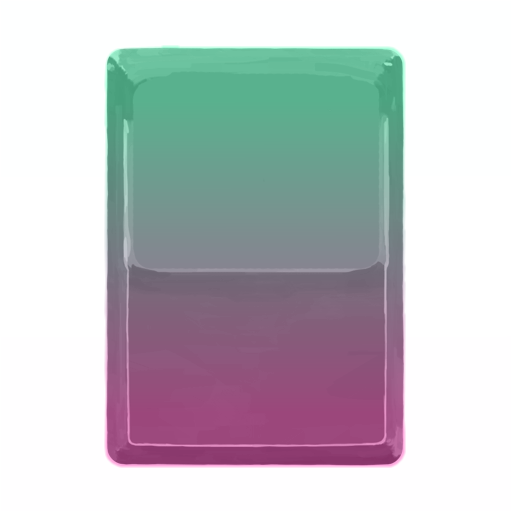
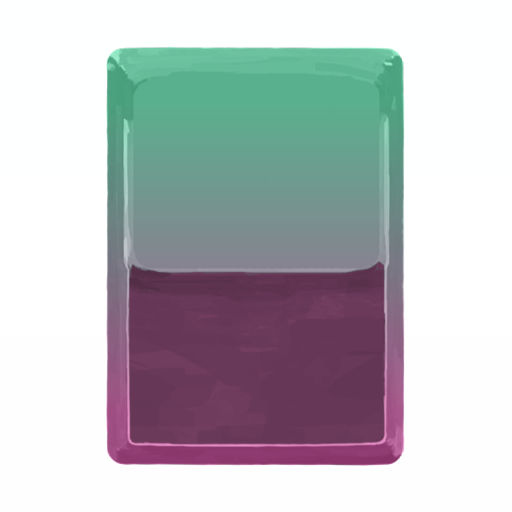
update cardbacks

diff --git a/src/main/java/omnismadeline/cards/colorless/IceCube.java b/src/main/java/omnismadeline/cards/colorless/IceCube.java
@@ -13,6 +13,8 @@ import omnismadeline.enums.CustomTags;
 import omnismadeline.powers.MomentumPower;
 import omnismadeline.util.CardStats;
 
+import static omnismadeline.MadelineMod.characterPath;
+
 public class IceCube extends BaseEnvironmentCard {
     public static final String ID = makeID(IceCube.class.getSimpleName());
     private static final CardStats info = new CardStats(
@@ -34,6 +36,8 @@ public class IceCube extends BaseEnvironmentCard {
         this.setExhaust(true);
         this.tags.add(CustomTags.ICE);
         this.cardsToPreview = new MagmaCube(false);
+
+        setBackgroundTexture(characterPath("cardback/bg_skill_env_colorless.png"), characterPath("cardback/bg_skill_env_colorless_p.png"));
     }
     public IceCube(boolean isPreview) {
         super(ID, info);
@@ -44,6 +48,8 @@ public class IceCube extends BaseEnvironmentCard {
         if (isPreview) {
             this.cardsToPreview = new MagmaCube(false);
         }
+
+        setBackgroundTexture(characterPath("cardback/bg_skill_env_colorless.png"), characterPath("cardback/bg_skill_env_colorless_p.png"));
     }
 
     @Override

diff --git a/src/main/java/omnismadeline/cards/colorless/IceWall.java b/src/main/java/omnismadeline/cards/colorless/IceWall.java
@@ -13,6 +13,8 @@ import omnismadeline.cards.MagmaWall;
 import omnismadeline.enums.CustomTags;
 import omnismadeline.util.CardStats;
 
+import static omnismadeline.MadelineMod.characterPath;
+
 public class IceWall extends BaseEnvironmentCard {
     public static final String ID = makeID(IceWall.class.getSimpleName());
     private static final CardStats info = new CardStats(
@@ -34,6 +36,8 @@ public class IceWall extends BaseEnvironmentCard {
         this.setExhaust(true);
         this.tags.add(CustomTags.ICE);
         this.cardsToPreview = new MagmaWall(false);
+
+        setBackgroundTexture(characterPath("cardback/bg_skill_env_colorless.png"), characterPath("cardback/bg_skill_env_colorless_p.png"));
     }
     public IceWall(boolean isPreview) {
         super(ID, info);
@@ -44,6 +48,8 @@ public class IceWall extends BaseEnvironmentCard {
         if (isPreview) {
             this.cardsToPreview = new MagmaWall(false);
         }
+
+        setBackgroundTexture(characterPath("cardback/bg_skill_env_colorless.png"), characterPath("cardback/bg_skill_env_colorless_p.png"));
     }
 
     @Override

diff --git a/src/main/java/omnismadeline/cards/BaseEnvironmentCard.java b/src/main/java/omnismadeline/cards/BaseEnvironmentCard.java
@@ -21,8 +21,10 @@ public abstract class BaseEnvironmentCard extends BaseCard {
         final String cardType =
                 info.cardType == CardType.ATTACK ? "_attack" :
                         info.cardType == CardType.SKILL ? "_skill" :
-                                info.cardType == CardType.POWER ? "_power" : "";
-        setBackgroundTexture(characterPath("cardback/bg"+ cardType +"_env.png"), characterPath("cardback/bg"+ cardType + "_env_p.png"));
+                                info.cardType == CardType.POWER ? "_power" : null;
+        if (cardType != null) {
+            setBackgroundTexture(characterPath("cardback/bg"+ cardType +"_env.png"), characterPath("cardback/bg"+ cardType + "_env_p.png"));
+        }
         tags.add(CustomTags.ENVIRONMENT);
     }
 

diff --git a/src/main/java/omnismadeline/character/MadelineCharacter.java b/src/main/java/omnismadeline/character/MadelineCharacter.java
@@ -118,7 +118,7 @@ public class MadelineCharacter extends CustomPlayer {
     public MadelineCharacter() {
         super(getNames()[0], Meta.OMNISMADELINE,
                 new CustomEnergyOrb(orbTextures, characterPath("energyorb/vfx.png"), layerSpeeds), //Energy Orb
-                new SpineAnimation(characterPath("animation/LandStance_1.atlas"), characterPath("animation/LandStance_1.json"), 1f));
+                new SpineAnimation(characterPath("animation/LandStance_0.atlas"), characterPath("animation/LandStance_0.json"), 1f));
 
         initializeClass(null,
                 SHOULDER_2,
